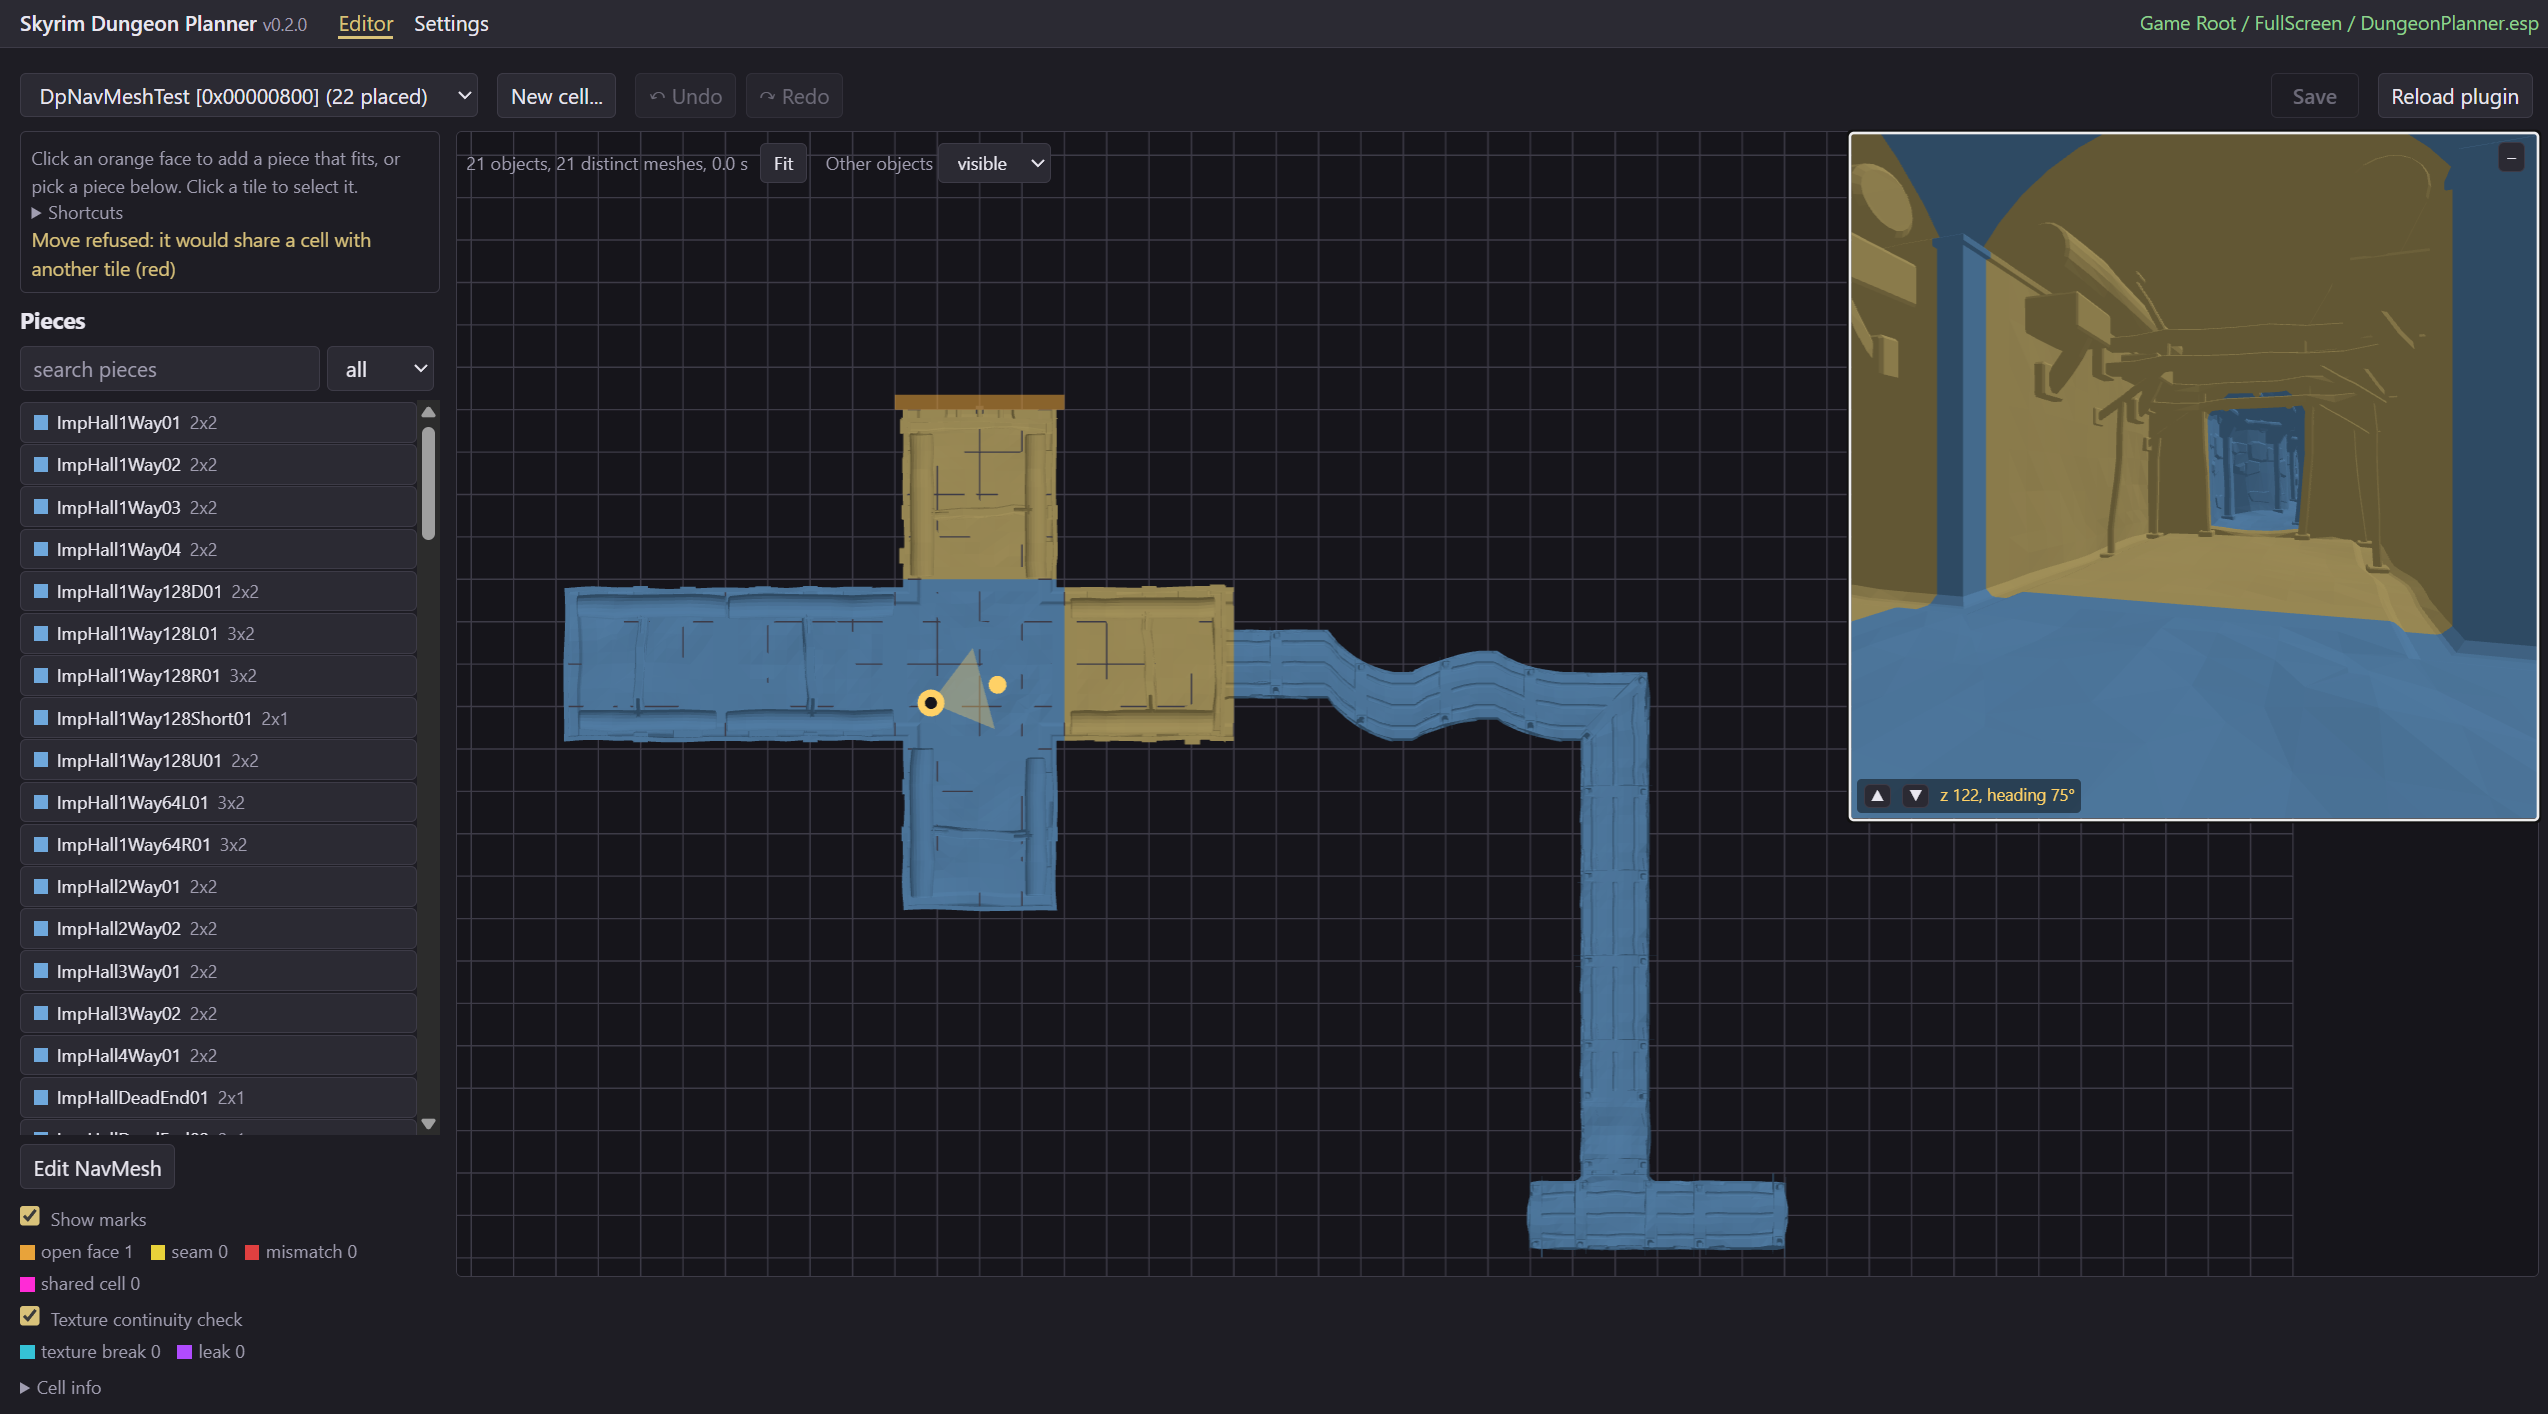
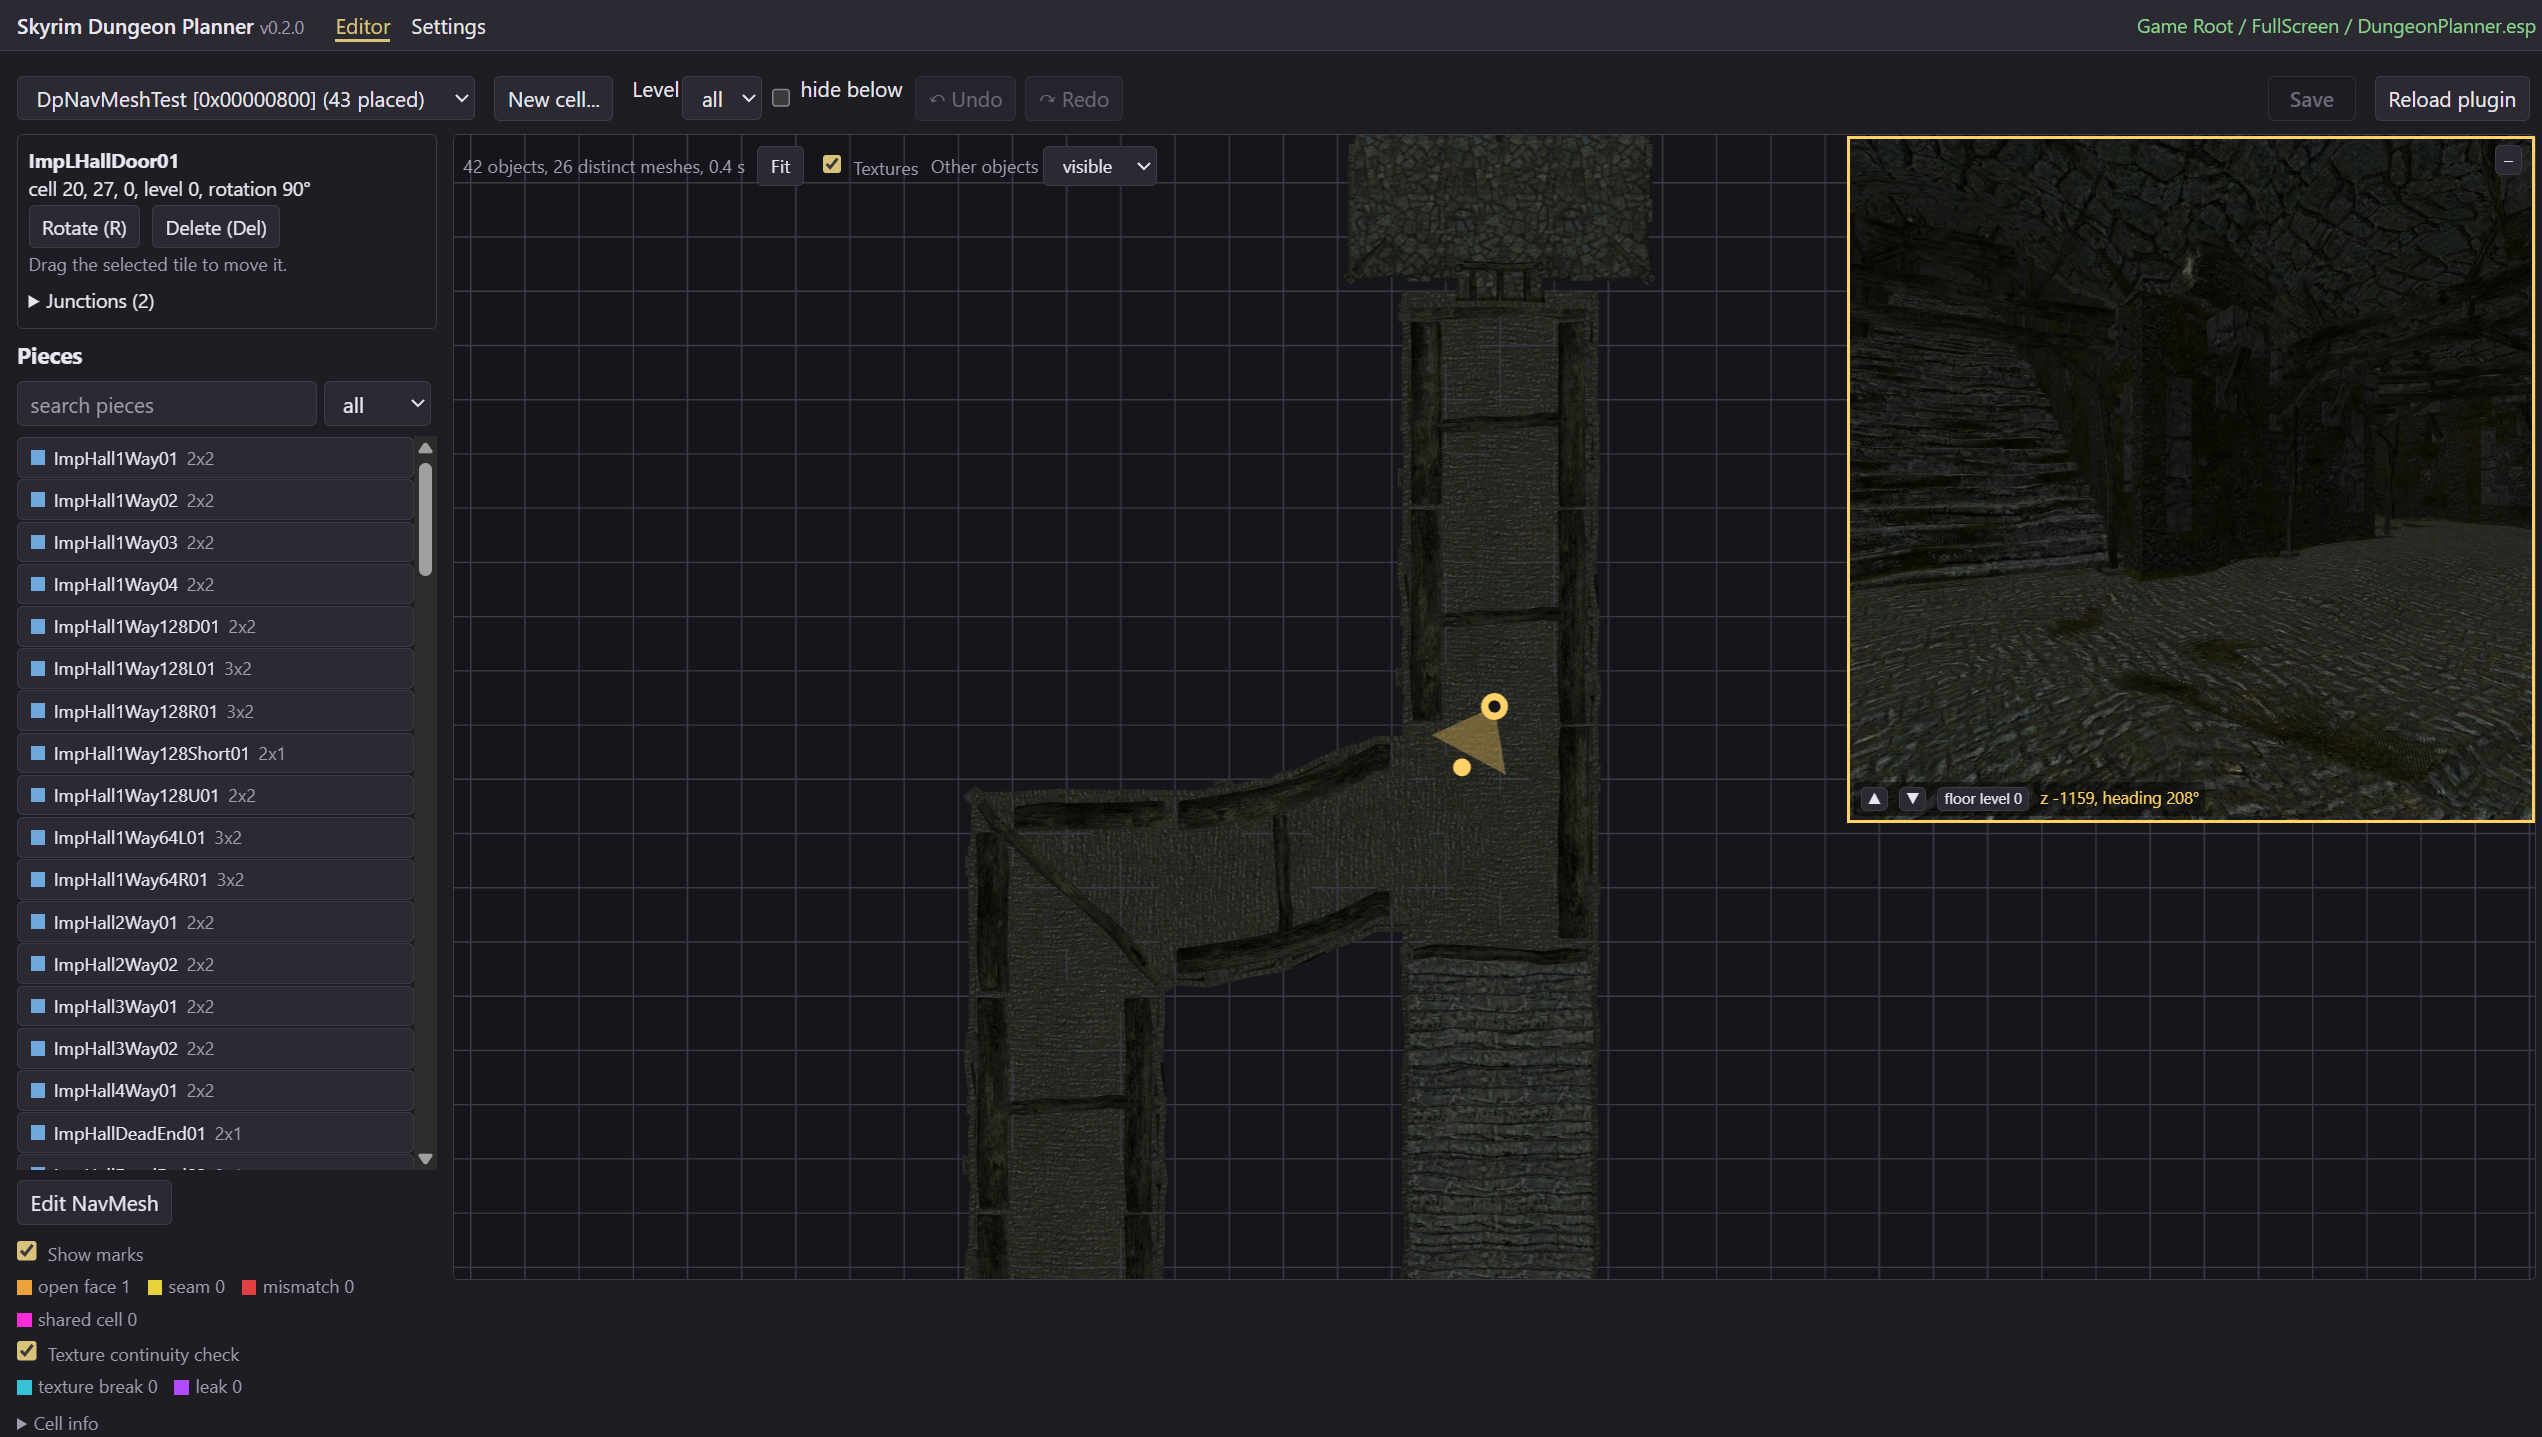
Camera view: the map follows the walking camera, the floor level under it; V3 milestone docs and screenshot

diff --git a/src/components/CellView.svelte b/src/components/CellView.svelte
@@ -31,6 +31,8 @@
     selection = [],
     level = null,
     below = 'dimmed',
+    levelAt,
+    onlevel,
     navmesh = null,
     fitKey,
   }: {
@@ -47,6 +49,10 @@
     /** The active level (V3): above it hidden, below it dimmed or hidden; null shows all. */
     level?: number | null;
     below?: BelowDisplay;
+    /** The grid level of a height, to show the level of the floor under the camera. */
+    levelAt?: (z: number) => number;
+    /** Show that level (a click on the camera's floor level). */
+    onlevel?: (level: number) => void;
     /** NavMesh layers drawn over the tiles (a preview, the NavMesh being edited). */
     navmesh?: readonly NavLayer[] | null;
     /** The view is re-framed whenever this value changes (a new cell was loaded). */
@@ -92,6 +98,8 @@
       // a little above the floor under the camera: up a ramp, down a step, not through a ceiling
       const floor = move ? scene.floorAt(x, y, z0 + 64) : undefined;
       eye = { heading, pos: [x, y, floor === undefined ? z0 : floor + EYE_HEIGHT] };
+      // walking keeps the camera at the centre of the top-down view, as in the game
+      if (move) scene.centreOn(x, y);
     }
     walkFrame = held.length ? requestAnimationFrame(walkStep) : 0;
   }
@@ -118,6 +126,13 @@
     cancelAnimationFrame(walkFrame);
     walkFrame = 0;
   }
+
+  /** The level of the floor under the camera, if any. */
+  const floorLevel = $derived.by(() => {
+    if (!eye || !scene || !levelAt) return undefined;
+    const floor = scene.floorAt(eye.pos[0], eye.pos[1], eye.pos[2] + 16);
+    return floor === undefined ? undefined : levelAt(floor);
+  });
 
   /** Raise or lower the camera by `dz` game units. */
   function raise(dz: number): void {
@@ -251,6 +266,11 @@
       >
         <button onclick={() => raise(16)} title="Raise the camera">▲</button>
         <button onclick={() => raise(-16)} title="Lower the camera">▼</button>
+        {#if floorLevel !== undefined}<button
+            class="floor"
+            title="The level of the floor under the camera: click to show it"
+            onclick={() => onlevel?.(floorLevel)}>floor level {floorLevel}</button
+          >{/if}
         z {Math.round(eye.pos[2])}, heading {Math.round(
           ((eye.heading * 180) / Math.PI + 360) % 360,
         )}°

diff --git a/src/lib/render/CellScene.ts b/src/lib/render/CellScene.ts
@@ -420,6 +420,14 @@ export class CellScene {
     this.handlers.eye?.(eye);
   }
 
+  /** Pan the top-down view so that (x, y) is at its centre, keeping the zoom. */
+  centreOn(x: number, y: number): void {
+    this.camera.position.set(x, y, this.camera.position.z);
+    this.controls.target.set(x, y, 0);
+    this.controls.update();
+    this.requestRender();
+  }
+
   /** The centre of the drawn objects (or of the grid), for a first camera position. */
   centre(): [number, number] | undefined {
     const box = this.objectBounds();

diff --git a/src/pages/EditorPage.svelte b/src/pages/EditorPage.svelte
@@ -2292,6 +2292,9 @@
           selection={navEdit ? [] : ed.selection}
           navmesh={navLayers}
           level={activeLevel}
+          levelAt={(z) =>
+            anchor ? Math.floor((z - anchor.origin[2]) / anchor.module.z + 0.25) : 0}
+          onlevel={(k) => (activeLevel = k)}
           below={belowDisplay}
           fitKey={ed.loaded.cell}
         />

diff --git a/README.md b/README.md
@@ -4,12 +4,13 @@
 entirely in the browser (Chrome or Edge, no backend). Your game folder is read in place through
 the File System Access API; nothing is uploaded.
 
-It covers the Imperial kit on a single Z level: open or create a plugin and its interior cells,
+It covers the Imperial kit, on several levels (one shown at a time, stairs and ramps between them): open or create a plugin and its interior cells,
 place tiles on the kit's grid, and let the assistant offer only the pieces that fit every
 neighbour. Junctions are checked on the pieces' own mesh profiles (seams, mismatches, shared
 cells), deeper for visible leaks, and optionally for texture continuity. The NavMesh is baked from
 the pieces' collision, edited by triangle, edge or vertex, and finalized (door links) in the tool.
-The result is written back into the plugin, with a backup, for the Creation Kit.
+The pieces can be shown with their game textures, and a camera view walks through the level as
+in the game. The result is written back into the plugin, with a backup, for the Creation Kit.
 
 ![The editor: a cell on the Imperial kit's grid, an open face and its compatible pieces](docs/img.png)
 
@@ -24,7 +25,6 @@ The result is written back into the plugin, with a backup, for the Creation Kit.
 ## Limits
 
 - **Imperial kit only**: other kits (Nordic, Dwemer, caves) are not supported yet.
-- **One level at a time**: ramps and stairs work, but the top-down view does not show heights.
 - **Tiles only**: the tool places the kit's structural pieces; clutter, lights, markers and
   anything else in a cell are shown and left untouched, never edited.
 - **No props or lighting**: finish those in the Creation Kit (new cells get a neutral default

diff --git a/docs/user-guide.md b/docs/user-guide.md
@@ -189,8 +189,10 @@ The square in the top right corner of the view shows the cell from a camera stan
 eye level. In the top-down view the camera is drawn in yellow: drag its disc to move it (it
 follows the floor, up ramps and down steps), drag the round handle at the tip of its wedge to
 turn it, and use the wheel over the disc (or the ▲ ▼ buttons) to raise or lower it. The **–**
-button folds the view away; **Camera** brings it back. Click the camera view to walk with the
-keyboard: **W** / **S** forward and back, **A** / **D** turn, **Shift** faster (a yellow frame shows
+button folds the view away; **Camera** brings it back. **floor level N** shows the level of the
+floor under the camera: click it to show that level. Click the camera view to walk with the
+keyboard: **W** / **S** forward and back (the top-down view follows, the camera at its centre),
+**A** / **D** turn, **Shift** faster (a yellow frame shows
 the view has the keys; click elsewhere to give them back). A piece being placed or moved shows
 there as well.
 
@@ -233,8 +235,7 @@ navmesh, doors' teleport links and everything else remain the CK's job.
 
 ## Limits
 
-- The **Imperial kit** only, and **one level (Z)** at a time: ramps and stairs work, but the view
-  does not show heights, so take care where levels change.
+- The **Imperial kit** only.
 - The tool edits tiles only (the kit's structural pieces); everything else in a cell passes
   through untouched.
 - No props or lighting. The NavMesh is baked, edited and finalized in the tool, but without

diff --git a/docs/design/planning/09-plan-v3.md b/docs/design/planning/09-plan-v3.md
@@ -168,3 +168,7 @@ does not merge two stacked floors (R7).
   cell. Frictions noted, fixed, then documentation (user guide, architecture) updated.
 - **Done when**: the criterion is met; the release version is proposed and confirmed (D63),
   tagged, and published.
+- **Result (2 Oct 2026)**: criterion met, the user declared V3 ready. Two additions from the
+  final pass: walking the camera with W / S keeps it at the centre of the top-down view
+  (`CellScene.centreOn`), and the inset shows the level of the floor under the camera, a click
+  showing that level.

diff --git a/docs/design/planning/04-roadmap.md b/docs/design/planning/04-roadmap.md
@@ -56,7 +56,7 @@ CK. Released as 0.1.0.**
 **Milestone reached (1 Oct 2026): the test dungeon baked in one click, finalized in the app, an
 NPC follows the player through it in game. V2.**
 
-## Phase 4 – Z – V3, see `09-plan-v3.md`
+## Phase 4 – Z – V3, see `09-plan-v3.md` (done 2 Oct 2026, with textures and a camera view)
 - [ ] At least show a tile's level (see `05-ideas.md`), before the full slices
 - [ ] Z slices, active slice, dimmed ghost below, option to hide everything
 - [ ] Pieces spanning two slices (stairs, sloped corridors)
